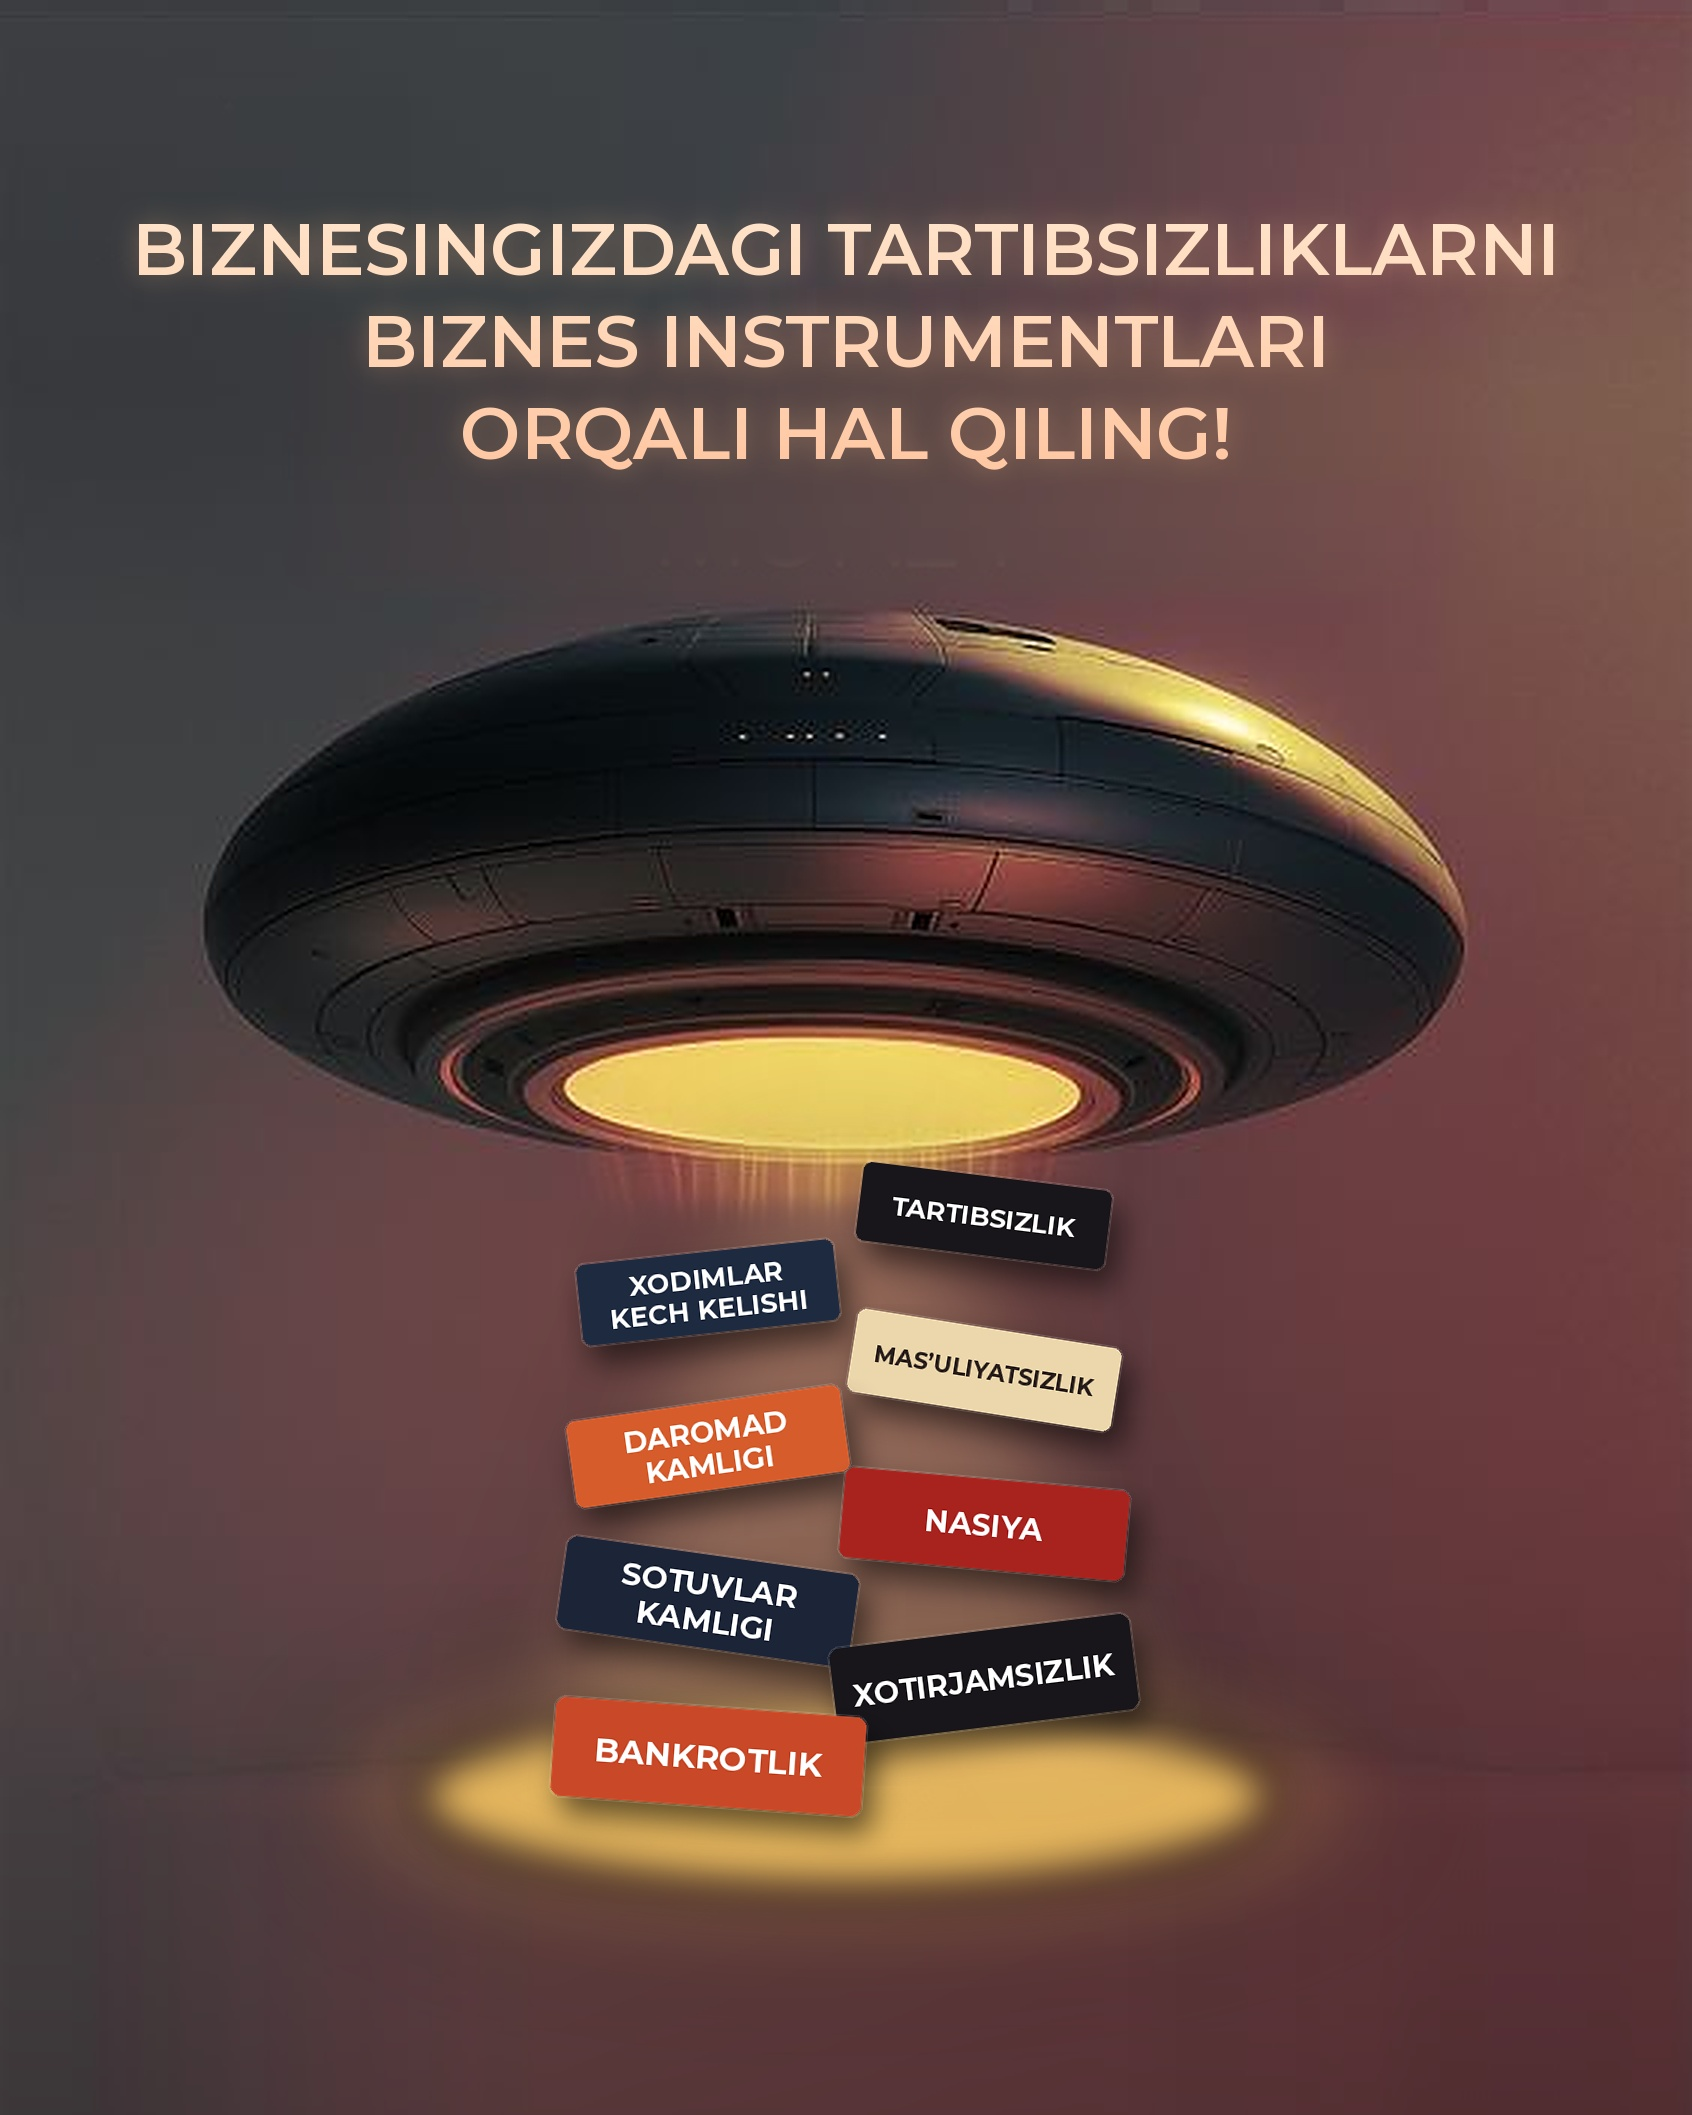
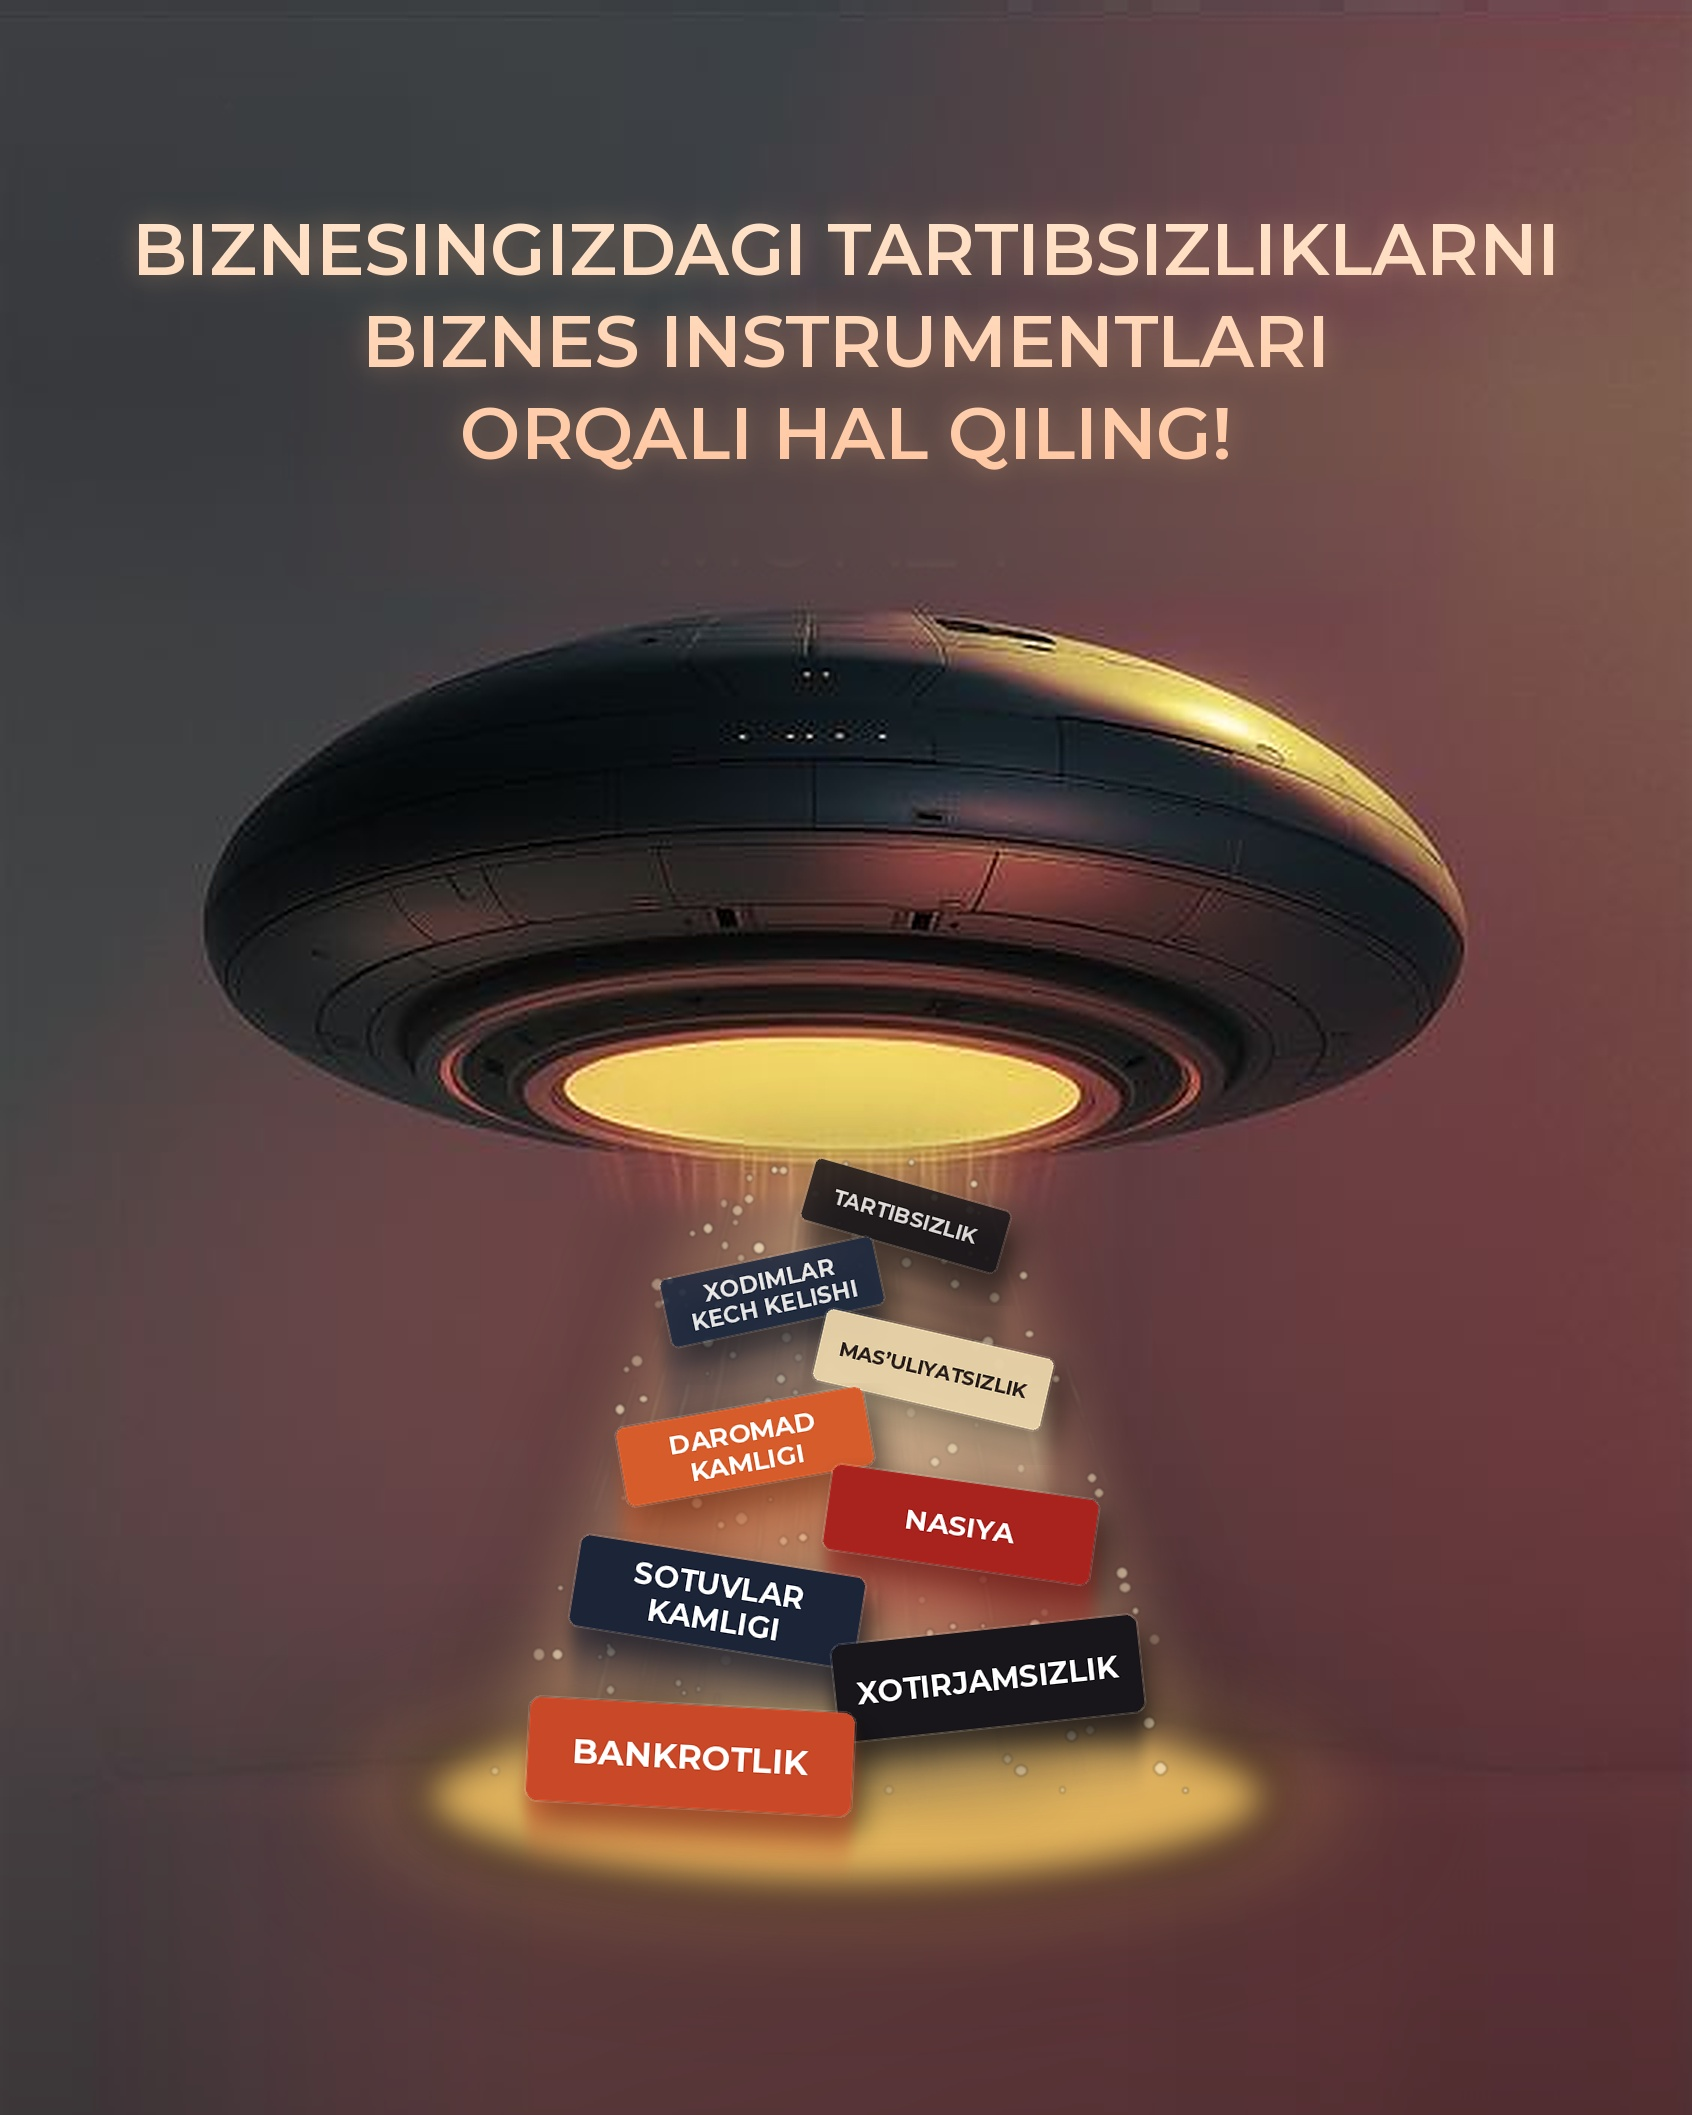
UFO posteri: tortish nuri va harakat effekti
Claude-Session: https://claude.ai/code/session_01MnVYm2tC76KAA1Eter6suD

Changed region(s): [[0.3073, 0.5305, 0.6761, 0.8738]]

diff --git a/dizayn/ufo_poster_yasash.py b/dizayn/ufo_poster_yasash.py
@@ -57,19 +57,41 @@ im.alpha_composite(sp.filter(ImageFilter.GaussianBlur(60)))
 sp=Image.new("RGBA",(W,H),(0,0,0,0)); s=ImageDraw.Draw(sp)
 s.ellipse((CX-spot_rx,spot_cy-spot_ry,CX+spot_rx,spot_cy+spot_ry),fill=(250,200,100,235))
 im.alpha_composite(sp.filter(ImageFilter.GaussianBlur(22)))
-# --- nur konusi: likopchadan dog'gacha, markazda ---
+# --- tortish nuri: likopchadan dog'gacha, ichida yuqoriga oqayotgan yorug'lik ---
+TOP_Y=385*S; TOP_W=150
 cone=Image.new("RGBA",(W,H),(0,0,0,0)); c=ImageDraw.Draw(cone)
-c.polygon([(CX-110,385*S),(CX+110,385*S),(CX+spot_rx*0.85,spot_cy),(CX-spot_rx*0.85,spot_cy)],fill=(255,205,140,70))
-im.alpha_composite(cone.filter(ImageFilter.GaussianBlur(60)))
+c.polygon([(CX-TOP_W,TOP_Y),(CX+TOP_W,TOP_Y),(CX+spot_rx*0.9,spot_cy),(CX-spot_rx*0.9,spot_cy)],fill=(255,205,140,85))
+im.alpha_composite(cone.filter(ImageFilter.GaussianBlur(45)))
+core=Image.new("RGBA",(W,H),(0,0,0,0)); c=ImageDraw.Draw(core)
+c.polygon([(CX-TOP_W*0.55,TOP_Y),(CX+TOP_W*0.55,TOP_Y),(CX+spot_rx*0.45,spot_cy),(CX-spot_rx*0.45,spot_cy)],fill=(255,225,170,60))
+im.alpha_composite(core.filter(ImageFilter.GaussianBlur(35)))
+rng=np.random.default_rng(7)
+streak=Image.new("RGBA",(W,H),(0,0,0,0)); sd=ImageDraw.Draw(streak)
+for _ in range(70):                       # nur ichidagi yuqoriga oqayotgan ingichka chiziqlar
+    u=rng.uniform(-1,1); y_a=rng.uniform(TOP_Y,spot_cy-80); ln=rng.uniform(90,320)
+    def xat(y): k=(y-TOP_Y)/(spot_cy-TOP_Y); return CX+u*(TOP_W+(spot_rx*0.85-TOP_W)*k)
+    y_b=min(spot_cy,y_a+ln)
+    for j in range(12):
+        y=y_a+(y_b-y_a)*j/12; y2=y_a+(y_b-y_a)*(j+1)/12
+        al=int(70*(1-j/12)*rng.uniform(0.5,1))
+        sd.line([(xat(y),y),(xat(y2),y2)],fill=(255,230,180,al),width=int(rng.integers(2,5)))
+im.alpha_composite(streak.filter(ImageFilter.GaussianBlur(2)))
+dust=Image.new("RGBA",(W,H),(0,0,0,0)); dd=ImageDraw.Draw(dust)
+for _ in range(160):                      # nurda ko'tarilayotgan chang zarralari
+    y=rng.uniform(TOP_Y,spot_cy); k=(y-TOP_Y)/(spot_cy-TOP_Y)
+    x=CX+rng.uniform(-1,1)*(TOP_W+(spot_rx*0.85-TOP_W)*k); r=rng.uniform(2,6)
+    dd.ellipse((x-r,y-r,x+r,y+r),fill=(255,236,200,int(rng.uniform(60,200))))
+im.alpha_composite(dust.filter(ImageFilter.GaussianBlur(1.2)))
 # --- og'riqlar plashkalari ---
 pains=sys.argv[2].split("|"); n=len(pains)
 cols=[((24,22,26),"w"),((30,42,64),"w"),((236,214,172),"d"),((214,92,44),"w"),((168,34,30),"w"),((28,36,56),"w"),((24,22,26),"w"),((200,72,40),"w")]
-angs=[-7,6,-9,8,-5,-8,7,-4]
+angs=[-16,12,-13,10,-8,-9,6,-3]
 y0=405*S; y1=spot_cy-40
 for i,p in enumerate(pains):
-    sc=0.74+0.18*i/(n-1)
+    sc=0.60+0.36*(i/(n-1))**1.1
     cy=y0+(y1-y0)*i/(n-1)
-    cx=CX+(46 if i%2==0 else -46)*S
+    amp=(20+32*i/(n-1))*S
+    cx=CX+(amp if i%2==0 else -amp)
     tw,th=int(114*S*sc),int(37*S*sc)
     col,tc=cols[i%len(cols)]
     words=p.upper().split(); fsz=int(36*sc)
@@ -89,6 +111,18 @@ for i,p in enumerate(pains):
     sh=Image.new("RGBA",tile.size,(0,0,0,0)); sh.putalpha(tile.getchannel("A").point(lambda v:v*0.55))
     sh=sh.filter(ImageFilter.GaussianBlur(14))
     x=int(cx-tile.width/2); y=int(cy-tile.height/2)
-    im.alpha_composite(sh,(x+10,y+18)); im.alpha_composite(tile,(x,y))
+    # yuqoriga tortilayotgandek harakat izi (plashka ostida xiralashgan nusxalar)
+    trail=Image.new("RGBA",tile.size,(0,0,0,0))
+    ghost=Image.new("RGBA",tile.size,col+(0,)); ghost.putalpha(tile.getchannel("A"))   # yozuvsiz, faqat rang
+    ghost=ghost.filter(ImageFilter.GaussianBlur(6))
+    steps=7; gap=int(10+18*(1-i/(n-1)))
+    big=Image.new("RGBA",(tile.width,tile.height+steps*gap),(0,0,0,0))
+    for k in range(steps,0,-1):
+        g=ghost.copy(); g.putalpha(g.getchannel("A").point(lambda v,k=k:int(v*0.22*(1-k/(steps+1)))))
+        big.alpha_composite(g,(0,k*gap))
+    im.alpha_composite(sh,(x+10,y+18)); im.alpha_composite(big,(x,y))
+    if i<3:                                # eng tepadagilar nurda yorishib, biroz shaffof
+        tile.putalpha(tile.getchannel("A").point(lambda v:int(v*(0.82+0.06*i))))
+    im.alpha_composite(tile,(x,y))
 print("margin top",margin,"bottom",H-spot_bottom)
 im.convert("RGB").save(sys.argv[3],quality=95)
